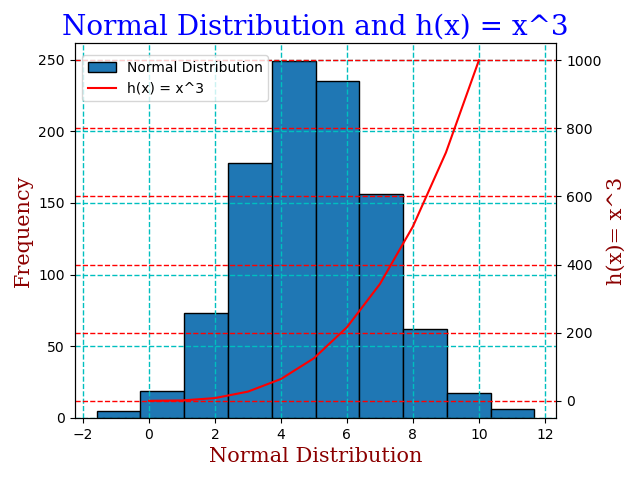
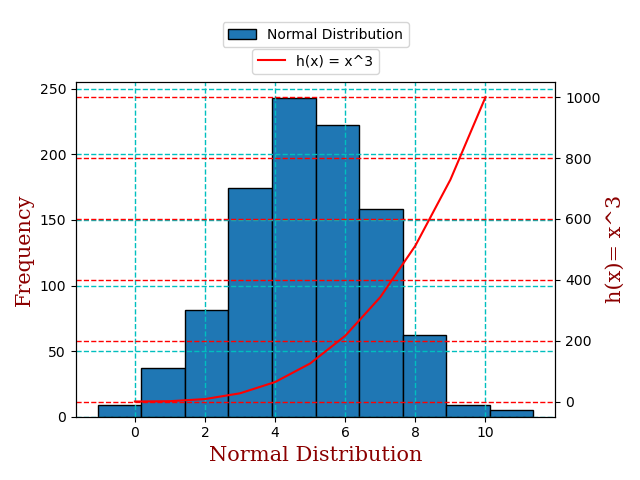
Adding legend to plottask.py

Changed region(s): [[0.0, 0.0312, 0.9688, 0.9688]]

diff --git a/plottask.py b/plottask.py
@@ -49,17 +49,20 @@ ax1.set_xlabel('Normal Distribution', fontdict=font2) #Set the x axis label
 ax1.set_ylabel('Frequency', fontdict=font2) #Set the y axis label
 ax1.grid(color = 'c', linestyle = '--', linewidth = 1) #Add a grid to the plot, set the color to cyan, the line style to dashed and the line width to 1
 
+plt.legend(bbox_to_anchor=(0.5, 1.2), loc='upper center') #Add a legend to the plot
+
 ax2 = ax1.twinx() #Create a second y axis
 ax2.plot(x_values, y_values, color='red', label="h(x) = x^3")
 ax2.set_ylabel('h(x)= x^3', fontdict=font2) #Set the y axis label
 ax2.grid(color = 'r', linestyle = '--', linewidth = 1) #Add a grid to the plot, set the color to cyan, the line style to dashed and the line width to 1
 
-fig.legend(loc='upper right', bbox_to_anchor=(0.43, 0.9)) #Show the legend
 
-ax1.set_title(label="Normal Distribution and h(x) = x^3", fontdict=font1) #Set the title of the plot
-
-fig.tight_layout(pad=1.0) #Add some padding to the subplot
+plt.legend(bbox_to_anchor=(0.5, 1.12), loc='upper center') #Add a legend to the plot
+fig.tight_layout() #Add some padding to the subplot
 
 plt.savefig('Images/normal_distribution_and_x_cubed.png') #Save the plot to a file
 plt.show()
+
+plt.clf() #Clear the current figure
+plt.close('all') #Close the current figure
 
